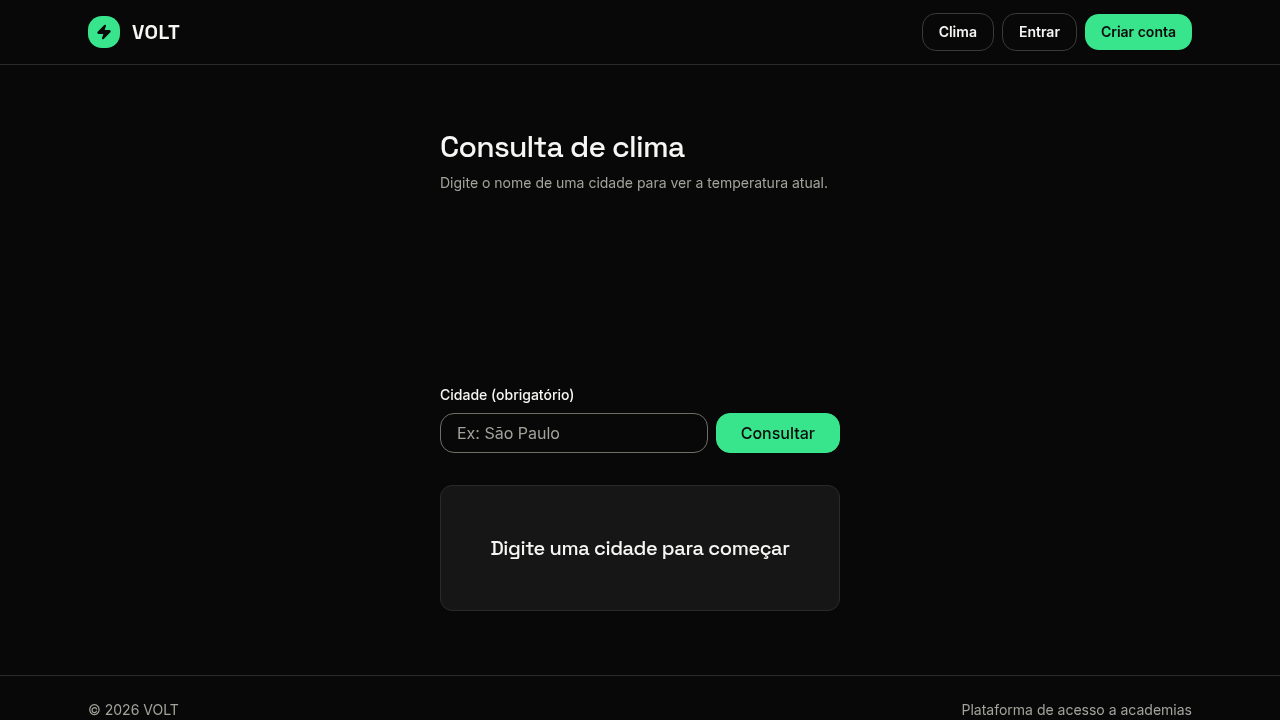
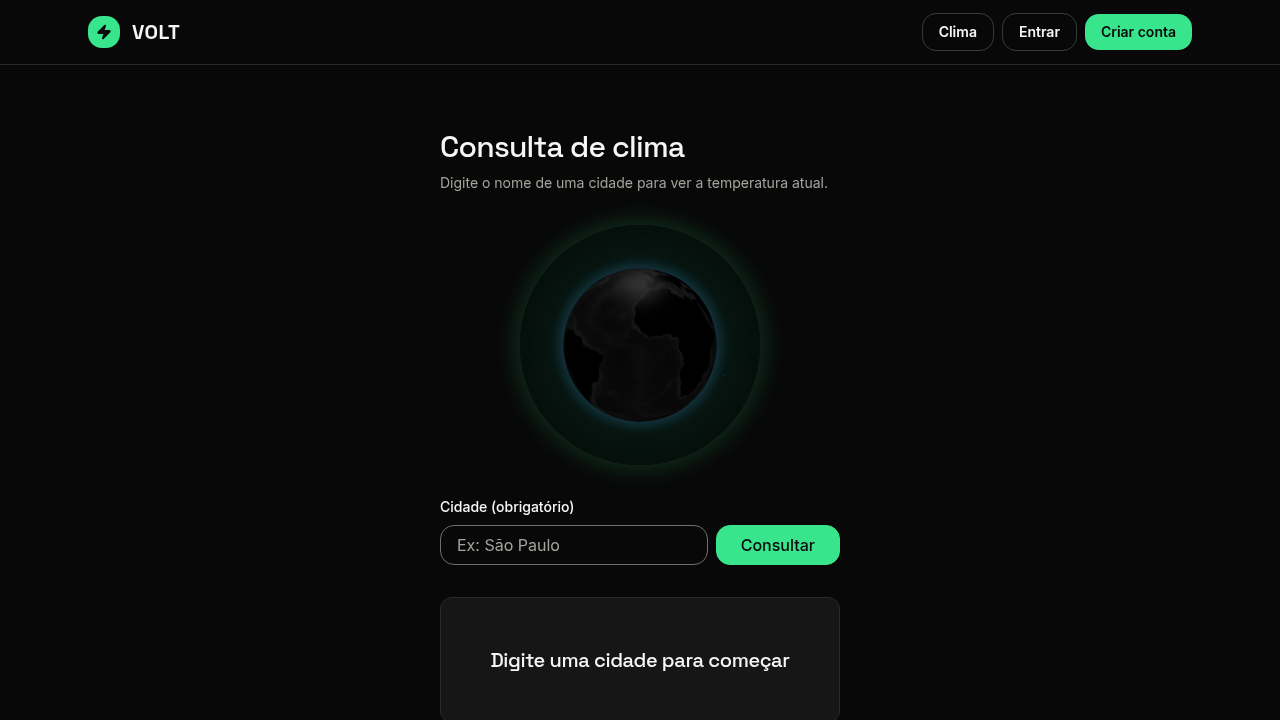
docs(weather-globe-clima): QA gate rodada 2 (revisão textura+rotação)
Reverifica US-01 (FR-017) e US-04 (FR-018) com evidência de browser real
contra build de produção (textura visível, falha de CDN induzida). Nova
US-05 (rotação manual, FR-014/015/016) extraída manualmente do PRD -
generate-slugs.cjs não capturou por causa da anotação parentética no
marcador da história. Gate geral: PARCIAL, nenhuma história FAILED.

diff --git a/docs/superpowers/weather-globe-clima/qa/qa-report-weather-globe-clima.md b/docs/superpowers/weather-globe-clima/qa/qa-report-weather-globe-clima.md
@@ -1,6 +1,6 @@
 ---
 created_at: "2026-09-05T08:55:00-03:00"
-updated_at: "2026-09-05T08:55:00-03:00"
+updated_at: "2026-09-05T11:08:01-03:00"
 ---
 
 # QA Report — weather-globe-clima
@@ -63,3 +63,54 @@ Nenhum bug em aberto. O único defeito comportamental real encontrado durante o 
 ## Conclusão
 
 **Aprovada com ressalvas.** Todos os 13 requisitos funcionais e as 4 histórias de usuário do PRD estão implementados e comprovados por evidência de código (`file:line` + valor esperado) e por testes automatizados que a verificação independente provou capazes de detectar regressões (mutation testing, 0 sobreviventes reais). As duas histórias marcadas `PARTIAL` (US-01, US-02) não têm nenhum gap de comportamento — a ressalva é exclusivamente sobre a captura de screenshot ao vivo neste ambiente de desenvolvimento local (HMR do Turbopack instável sob automação headless atrás de um proxy nginx), não sobre a implementação. Feature pronta para merge.
+
+---
+
+## Rodada 2 — Revisão 2026-09-05 (textura + rotação manual + 240px)
+
+A revisão de spec de 2026-09-05 adicionou FR-014 a FR-018 e a história **US-05** (nova). Esta
+rodada verifica apenas o que a revisão introduziu — as histórias US-02 e US-03 não ganharam
+nenhum FR novo neste ciclo e não foram reexecutadas; seus vereditos anteriores (`PARTIAL` e
+`PASS`, respectivamente) permanecem válidos e estão listados no Resumo abaixo sem mudança.
+
+### Resumo (rodada 2)
+- **Status geral**: ⚠ PARCIAL (nenhuma história `FAILED`; US-02 e US-05 `PARTIAL`, restante `PASSED`)
+- **Requisitos novos**: FR-014, FR-015, FR-016, FR-017, FR-018, D6 (240px) — todos com evidência PASS em `qa/validation-weather-globe-clima.md` (rodada 5, IV, mutation testing sem sobreviventes)
+- **Bugs encontrados nesta rodada**: 0 (o único gap, D6/`GLOBE_SIZE_PX` sem asserção, foi achado e fechado dentro do próprio gate de IV, rodada 4→5 — ver `validation-weather-globe-clima.md`)
+
+### Extração de user stories — ressalva documentada
+`generate-slugs.cjs` extraiu apenas US-01 a US-04 do PRD atualizado — não capturou **US-05**
+porque a anotação `(revisão 2026-09-05)` entre o marcador `**US-05**` e o travessão quebra o
+regex do script. US-05 foi adicionada manualmente a este round lendo o PRD diretamente
+(`requirements`: FR-014, FR-015, FR-016; `uiFacing`: true, marcado explicitamente no PRD).
+
+### Requisitos Verificados (novos, rodada 2)
+
+| ID | Requisito | Status | Evidência |
+|----|-----------|--------|-----------|
+| FR-014 | Arrastar/tocar gira o globo manualmente (`enableRotate=true`) | ✅ PASSOU | `evidence/us-05-.../result.json`; `validation-weather-globe-clima.md` rodada 5 (sensor de mutação real: baseline do mock invertido) |
+| FR-015 | Zoom e pan continuam desabilitados por gesto | ✅ PASSOU | `evidence/us-05-.../result.json` (`enableZoom`/`enablePan` = false, teste unitário) |
+| FR-016 | Clique/toque sobre o globo não dispara busca nem seleciona localidade | ✅ PASSOU | `evidence/us-05-.../result.json` — confirmado tanto por teste unitário (ausência de handler) quanto por browser real (URL/campo de cidade inalterados após clique/drag) |
+| FR-017 | Globo exibe textura de mapa-múndi (não esfera sólida) | ✅ PASSOU | `evidence/us-01-.../result.json` + `screenshot.png` (textura visível em build de produção) |
+| FR-018 | Falha no carregamento da textura não trava/derruba o globo | ✅ PASSOU | `evidence/us-04-.../result.json` — falha real induzida no browser (404 forçado na CDN), globo permaneceu renderizado sem fallback |
+| D6 | `GLOBE_SIZE_PX = 240` | ✅ PASSOU | `validation-weather-globe-clima.md` rodada 5 (FIX-03: asserção adicionada, mutação 240→128 morta) |
+
+### Testes E2E Executados (rodada 2)
+
+| Fluxo | Resultado | Observações |
+|-------|-----------|-------------|
+| US-01 — Globo decorativo (revisão: textura FR-017) | ✅ PASSOU | 23/23 testes; screenshot em build de produção (`next build`+`next start`, porta 3100) mostra a textura visível — resolve a limitação de HMR da rodada 1 |
+| US-04 — Clima resiliente a falha do globo (revisão: FR-018) | ✅ PASSOU | 21/21 testes; falha real de rede induzida via `playwright-cli route ... --status 404` na CDN da textura — globo seguiu renderizado, sem fallback |
+| US-05 — Rotação manual por arrastar/tocar (nova) | ⚠ PARCIAL | 18/18 testes unitários + sensor de mutação real (IV); FR-016 confirmado em browser real; FR-014 (rotação visual em resposta ao arrasto) não isolável por diff de screenshot porque o globo já auto-rotaciona continuamente — limitação honesta de ferramenta, não falha de implementação (mecanismo segue coberto por teste+mutação) |
+| US-02, US-03 | não reexecutadas | sem FR novo nesta revisão; vereditos da rodada 1 preservados (`PARTIAL`, `PASS`) |
+
+### Conclusão (rodada 2)
+
+**Aprovada com ressalvas.** FR-014 a FR-018 e D6 estão implementados e comprovados — a maioria
+com evidência de browser real além do teste unitário (textura visível, falha de CDN induzida,
+ausência de navegação por clique), não apenas leitura de spec. A única ressalva nova (US-05
+`PARTIAL`) é uma limitação de ferramenta já explicada em detalhe na evidência (não dá para
+isolar visualmente rotação-por-arrasto de auto-rotação contínua via diff de screenshot) — o
+mecanismo em si (`enableRotate`) tem cobertura sólida com sensor de mutação real provando que
+o teste de fato falsifica a regressão. Nenhum gap de comportamento real restou aberto. Feature
+pronta para merge.
